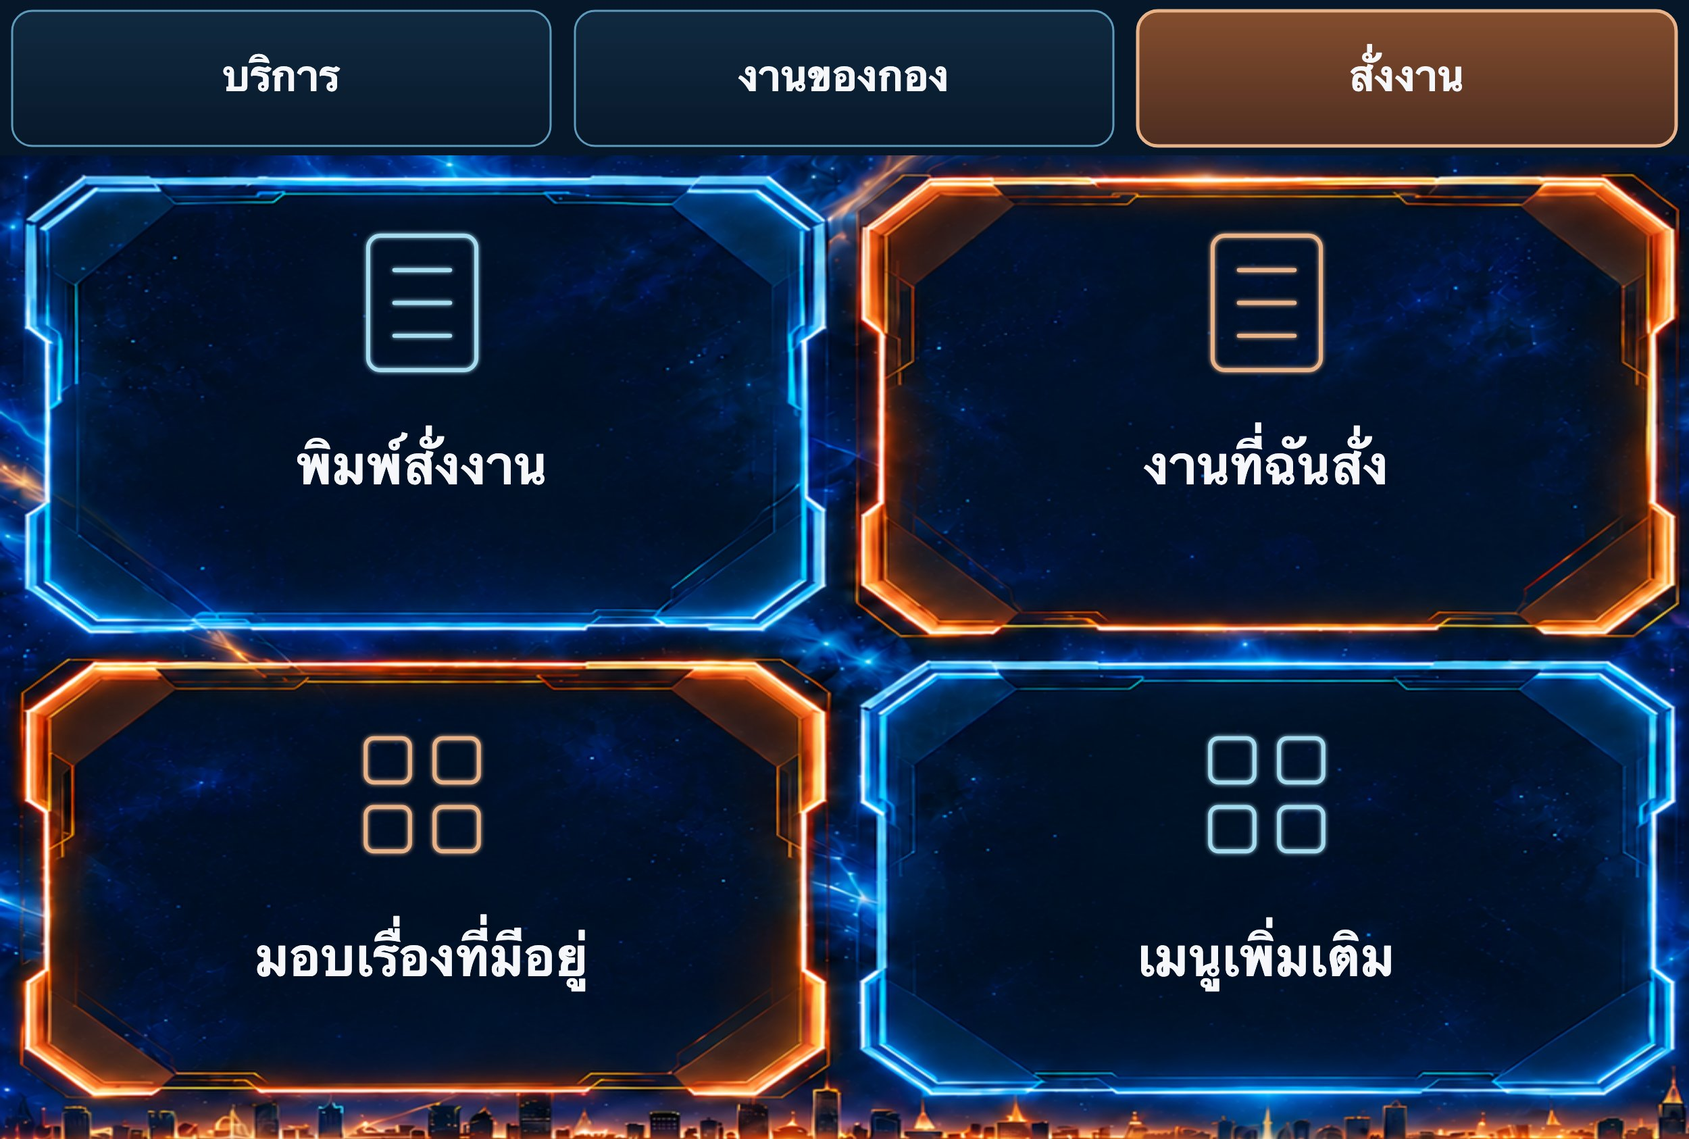
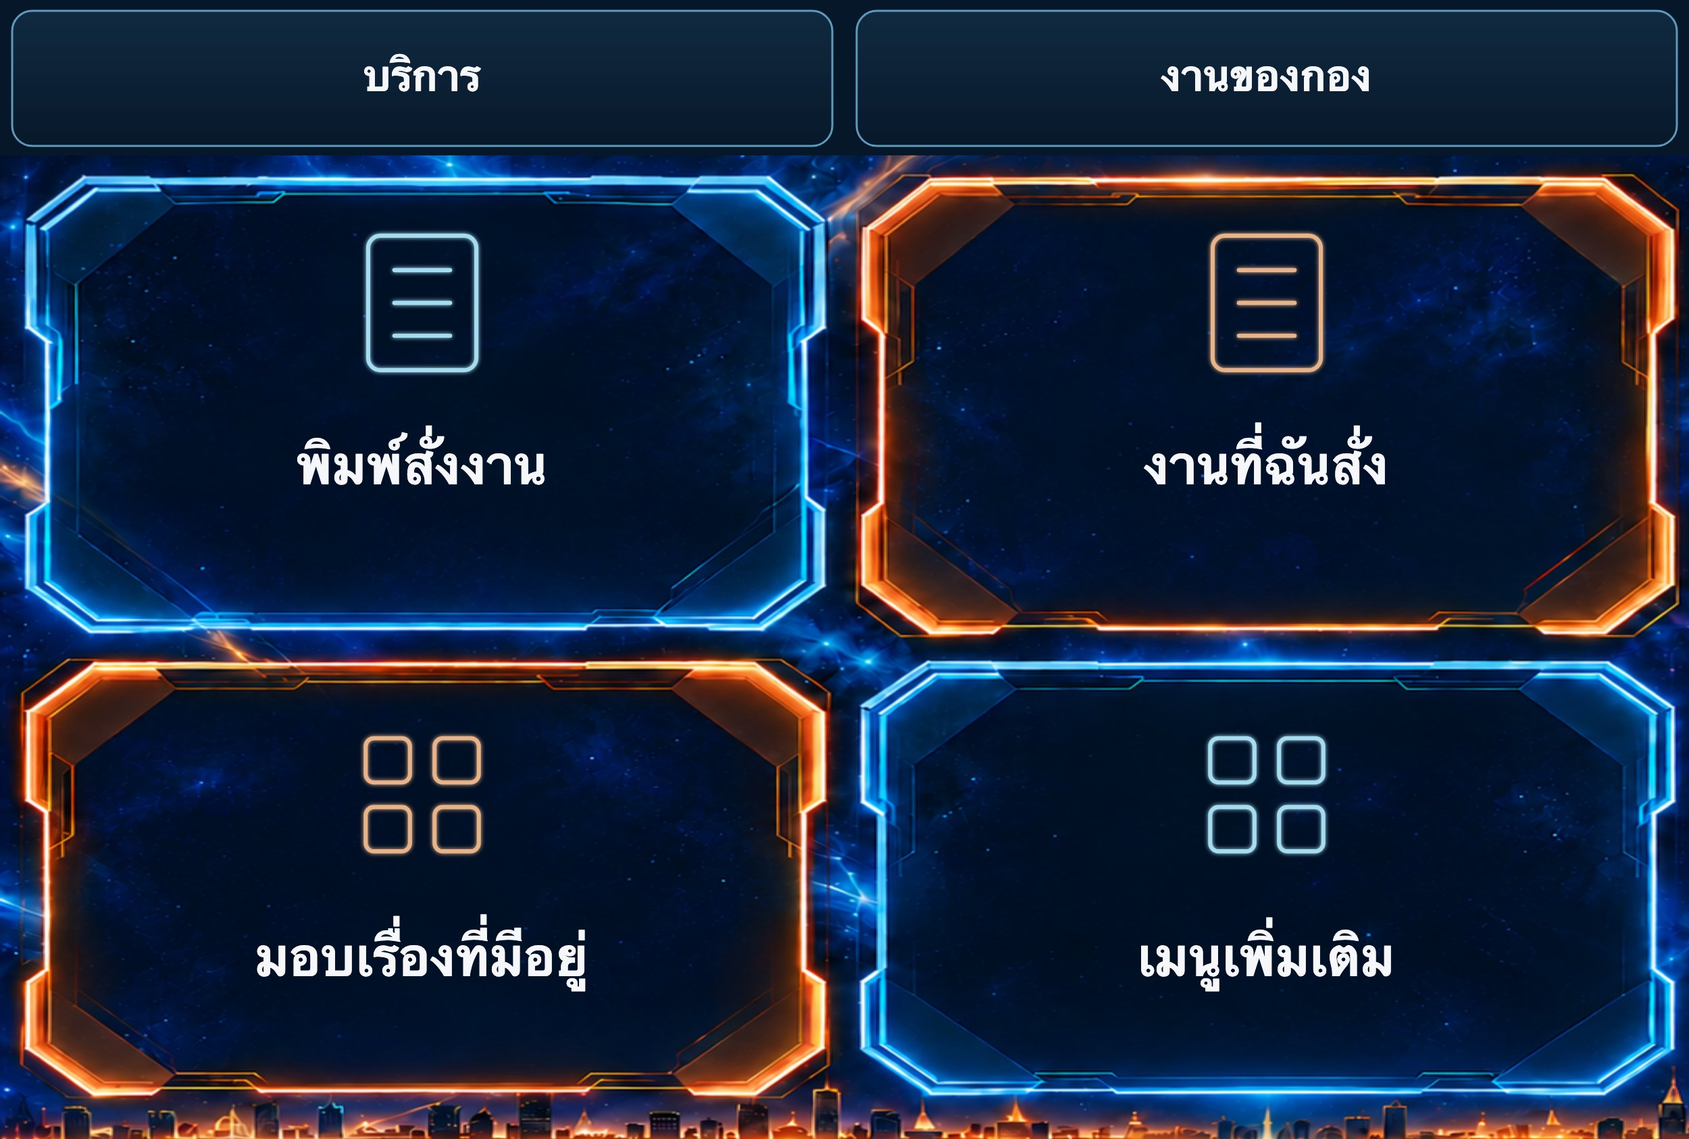
Restrict new work orders to department supervisors

diff --git a/operations/tests/test_m13_convenience.py b/operations/tests/test_m13_convenience.py
@@ -203,12 +203,11 @@ class MaterialGroupTests(registry_tests.RegistryTestCase):
 
 
 class AdminButtonsTests(admin_tests.AdminLineTests):
-    def test_rich_menu_role_navigation_exposes_admin_controls_only_to_admins(self):
+    def test_more_menu_does_not_include_deferred_admin_controls(self):
         self.link(self.admin, ALICE)
         self.link(self.head, BOB)
         choices = buttons(self.say(self.postback(ALICE, "m=roles")))
-        self.assertIn("แอดมิน", choices)
-        self.assertLessEqual(len(choices), 8)
+        self.assertEqual(choices, {})
         self.assertNotIn("แอดมิน", buttons(self.say(self.postback(BOB, "m=roles"))))
 
     def test_approval_button_and_role_wizard_require_current_admin_rights(self):
@@ -257,12 +256,12 @@ class StaffButtonsTests(staff_tests.StaffChatTestCase):
     def test_rich_menu_shortcuts_open_personal_cases_and_the_current_roles_menu(self):
         self.link(self.head, ALICE)
         roles = self.say(self.postback(ALICE, "m=roles"))
-        self.assertIn("งานที่ฉันสั่ง", buttons(roles))
+        self.assertEqual(buttons(roles), {})
         tracking = self.say(self.postback(ALICE, "m=mine"))
         self.assertIn("เรื่องที่ยังไม่จบ", texts(tracking))
         self.assertNotIn("งานที่ฉันสั่ง", buttons(tracking))
         self.assertIn("เรื่องที่ยังไม่จบ", texts(self.type(ALICE, "ติดตามเรื่องของฉัน")))
-        self.assertIn("งานที่ฉันสั่ง", buttons(self.type(ALICE, "เมนูตามสิทธิ์")))
+        self.assertEqual(buttons(self.type(ALICE, "เมนูตามสิทธิ์")), {})
 
     def test_personal_tracking_hides_other_staff_reports_in_the_same_division(self):
         member = make_staff("personal-member", (Role.STAFF, self.kae.code))
@@ -289,15 +288,18 @@ class StaffButtonsTests(staff_tests.StaffChatTestCase):
         self.assertNotIn(cases[BOB].number, buttons(mine))
 
     def test_staff_order_list_pages_and_supervisor_cancel_button(self):
-        self.link(self.head, ALICE)
-        orders = [work_orders.create(self.head, f"งาน {n}", self.kae, self.head) for n in range(7)]
+        self.link(self.director, ALICE)
+        orders = [
+            work_orders.create(self.director, f"งาน {n}", self.kae, self.head) for n in range(7)
+        ]
         self.type(ALICE, "งานของกอง")
         first = self.press(ALICE, "งานที่ฉันสั่ง")
         self.assertEqual(sum(label.startswith("T") for label in buttons(first)), 5)
         second = self.press(ALICE, "ถัดไป")
         self.assertEqual(sum(label.startswith("T") for label in buttons(second)), 2)
         self.assertIn(orders[-1].number, texts(first) + texts(second))
-        self.press(ALICE, "สั่งงานใหม่")
+        menu = self.say(self.postback(ALICE, "m=roles"))
+        self.press(ALICE, "สั่งงาน", menu)
         with patch("operations.staff_orders_chat.extract", return_value=None):
             summary = self.type(ALICE, "ให้ทั้งกอง กองอุปกรณ์ฯ ตรวจมิเตอร์")
         self.press(ALICE, "ยกเลิก")
@@ -305,12 +307,14 @@ class StaffButtonsTests(staff_tests.StaffChatTestCase):
         self.assertEqual(WorkOrder.objects.count(), 7)
 
     def test_supervisor_picks_recipient_then_confirms(self):
-        self.link(self.head, ALICE)
+        self.link(self.director, ALICE)
         self.type(ALICE, "สั่งงาน")
         with patch("operations.staff_orders_chat.extract", return_value=None):
             self.type(ALICE, "ตรวจมิเตอร์")
-            self.press(ALICE, "เลือกผู้รับ")
-            self.press(ALICE, "กองอุปกรณ์ฯ")
+            choices = self.press(ALICE, "เลือกผู้รับ")
+            while "กองอุปกรณ์ฯ" not in buttons(choices):
+                choices = self.press(ALICE, "ถัดไป", choices)
+            self.press(ALICE, "กองอุปกรณ์ฯ", choices)
             summary = self.press(ALICE, f"{self.head.pk} {work_orders.name_of(self.head)}"[:20])
         self.assertIn("ยืนยัน", buttons(summary))
         self.press(ALICE, "ยืนยัน")
@@ -319,7 +323,7 @@ class StaffButtonsTests(staff_tests.StaffChatTestCase):
     def test_assign_person_pages_and_cancellation_without_reason(self):
         self.link(self.head, ALICE)
         people = [make_staff(f"member-{n}", (Role.STAFF, self.kae.code)) for n in range(7)]
-        order = work_orders.create(self.head, "ตรวจอุปกรณ์", self.kae)
+        order = work_orders.create(self.director, "ตรวจอุปกรณ์", self.kae)
         self.type(ALICE, order.number)
         reply = self.press(ALICE, "มอบให้คนในกอง")
         label = f"{people[-1].pk} {work_orders.name_of(people[-1])}"[:20]

diff --git a/operations/tests/test_m13_work_orders.py b/operations/tests/test_m13_work_orders.py
@@ -52,12 +52,14 @@ class OrderTestCase(OrgTestCase):
 
 
 class IssueTests(OrderTestCase):
-    def test_only_a_supervisor_issues_and_only_to_divisions_they_oversee(self):
+    def test_only_department_supervisors_issue_orders(self):
         with self.assertRaises(PermissionDenied):
             work_orders.create(self.kcw, "งานทดสอบ", self.kcw_division)
         with self.assertRaises(PermissionDenied):
             work_orders.create(self.head, "งานทดสอบ", self.ktf_division)
-        order = work_orders.create(self.head, "งานทดสอบ", self.kcw_division)
+        with self.assertRaises(PermissionDenied):
+            work_orders.create(self.head, "งานทดสอบ", self.kcw_division)
+        order = work_orders.create(self.director, "งานทดสอบ", self.kcw_division)
         self.assertRegex(order.number, r"^T\d\d-000001$")
         other = work_orders.create(self.director, "งานทดสอบ", self.ktf_division)
         self.assertEqual(other.number[-6:], "000002")
@@ -67,6 +69,32 @@ class IssueTests(OrderTestCase):
             work_orders.create(self.director, "  ", self.kcw_division)
         with self.assertRaises(ValidationError):
             work_orders.create(self.director, "งานทดสอบ", self.kcw_division, channel="unknown")
+
+    def test_web_creation_is_department_only_for_get_and_post(self):
+        for user in (self.head, self.kcw, self.admin):
+            with self.subTest(user=user.username):
+                client = Client()
+                client.force_login(user)
+                self.assertEqual(client.get(reverse("order-new")).status_code, 403)
+                page = client.get(reverse("division-detail", args=[self.kcw_division.code]))
+                self.assertNotContains(page, "สั่งงานถึงกองนี้")
+                response = client.post(
+                    reverse("order-new"),
+                    {"title": "งานที่ไม่มีสิทธิ์", "target": f"d:{self.kcw_division.pk}"},
+                )
+                self.assertEqual(response.status_code, 403)
+        self.assertFalse(WorkOrder.objects.exists())
+
+    def test_revoked_department_role_cannot_use_a_stale_user_to_create(self):
+        from operations.models import RoleGrant
+
+        self.assertTrue(work_orders.may_issue(self.director))
+        grant = RoleGrant.objects.get(user=self.director, role=Role.DEPARTMENT_SUPERVISOR)
+        identity.revoke_role(self.admin, grant, "ถอนสิทธิ์ทดสอบ")
+        self.assertFalse(work_orders.may_issue(self.director))
+        with self.assertRaises(PermissionDenied):
+            work_orders.create(self.director, "งานจากร่างเดิม", self.kcw_division)
+        self.assertFalse(WorkOrder.objects.exists())
 
     def test_division_work_goes_to_its_supervisor_and_person_work_to_the_person(self):
         self.order()

diff --git a/operations/staff_work.py b/operations/staff_work.py
@@ -60,30 +60,20 @@ def _case_line(case):
 
 
 def navigation(turn, user):
-    """Less frequent actions stay in chat, within the linked account's current role."""
-    actions = {A.WORK_DUE, A.WORK_FIND, A.OPEN_WEB}
+    """The approved extra menu contains only department-level order creation."""
+    quick = []
     if work_orders.may_issue(user):
-        actions |= {A.ORDER_ISSUED, A.ORDER_LATE, A.ORDER_TODAY}
-    rows = LineMenuItem.objects.filter(
-        action__in=actions, place=LineMenuItem.Place.TILE, is_active=True
-    ).order_by("tab", "position", "pk")
-    seen, quick = set(), []
-    for item in rows:
-        if item.action not in seen:
-            seen.add(item.action)
-            quick.append((item.label, f"m=item&id={item.pk}"))
-    if identity.staff_scope(user).is_admin:
-        from operations.admin_line import nav_button
-
-        quick.append(nav_button(turn, "แอดมิน", "home"))
-    quick.append(("บริการ", "m=home"))
-    turn.say("เลือกการดำเนินการตามสิทธิ์", quick)
+        quick.append(turn.button("สั่งงาน", "staff_ow_start"))
+    turn.say("กรุณาเลือกการดำเนินการ" if quick else "ขณะนี้ไม่มีเมนูเพิ่มเติมสำหรับสิทธิ์ของท่าน", quick)
 
 
 def handle_item(turn, user, item):
     """A tap on a งานของกอง or สั่งงาน button of the rich menu."""
-    if item.tab == T.ORDER and not work_orders.may_issue(user):
-        turn.say("เมนูสั่งงานใช้ได้เฉพาะ Supervisor", [web_button()])
+    if item.action == A.ORDER_NEW and not work_orders.may_issue(user):
+        turn.say("การสั่งงานสงวนสิทธิ์สำหรับ Supervisor ระดับฝ่ายเท่านั้น", [web_button()])
+        return
+    if item.tab == T.ORDER and not identity.staff_scope(user).overseen:
+        turn.say("เมนูนี้สงวนสิทธิ์สำหรับ Supervisor เท่านั้น", [web_button()])
         return
     turn.set_prompt()
     {
@@ -160,10 +150,9 @@ def list_page(turn, user, kind="group", page=1):
         if 1 <= number <= rows.paginator.num_pages:
             quick.append(list_button(turn, label, kind, number))
     quick += [list_button(turn, "งานของฉัน", "mine"), list_button(turn, "งานสั่งที่ได้รับ", "received")]
-    if work_orders.may_issue(user):
+    if scope.overseen:
         quick += [
             list_button(turn, "งานที่ฉันสั่ง", "issued"),
-            turn.button("สั่งงานใหม่", "staff_ow_start"),
         ]
     if kind in {"due_cases", "late"}:
         quick.append(

diff --git a/operations/tests/test_m13_mixed_queue.py b/operations/tests/test_m13_mixed_queue.py
@@ -14,8 +14,12 @@ from operations.tests.test_m10_web import WebTestCase
 
 
 class MixedQueueTests(WebTestCase):
+    def setUp(self):
+        super().setUp()
+        self.director = make_staff("director", (Role.DEPARTMENT_SUPERVISOR, None))
+
     def order(self, **extra):
-        return work_orders.create(self.supervisor, "ตรวจมิเตอร์", self.mtr, **extra)
+        return work_orders.create(self.director, "ตรวจมิเตอร์", self.mtr, **extra)
 
     def numbers(self, page):
         return [(row.order or row.case).number for row in page.context["rows"]]
@@ -45,8 +49,7 @@ class MixedQueueTests(WebTestCase):
         line.refresh_from_db()
         web = self.order()
         other_division = Division.objects.get(code="SIM-TRF")
-        other_head = make_staff("trfhead", (Role.SUPERVISOR, other_division.code))
-        other = work_orders.create(other_head, "ตรวจหม้อแปลง", other_division)
+        other = work_orders.create(self.director, "ตรวจหม้อแปลง", other_division)
         work_orders.act(self.meter, line, "start")
         for user in (self.meter, self.supervisor, self.admin):
             with self.subTest(user=user.username):
@@ -55,8 +58,8 @@ class MixedQueueTests(WebTestCase):
                 self.assertEqual(set(self.numbers(page)), {case.number, line.number, web.number})
                 self.assertEqual(page.context["pager"]["total"], 3)
                 self.assertEqual(dict((key, n) for key, _, n in page.context["tabs"])["host"], 3)
-                self.assertContains(page, "สั่งโดย Supervisor · ผ่าน LINE")
-                self.assertContains(page, "สั่งโดย Supervisor · ผ่าน เว็บ")
+                self.assertContains(page, "สั่งโดย Director · ผ่าน LINE")
+                self.assertContains(page, "สั่งโดย Director · ผ่าน เว็บ")
                 for arrived in (case.submitted_at, line.created_at, web.created_at):
                     self.assertContains(page, f"เข้า {thai_short(arrived)} น.")
                 self.assertContains(page, reverse("order-detail", args=[line.number]))
@@ -173,8 +176,8 @@ class MixedQueueTests(WebTestCase):
             },
         )
         self.assertContains(client.get(reverse("queue-all"), {"overdue": 1}), late.number)
-        self.supervisor.staff_profile.display_name = "=HYPERLINK(1)"
-        self.supervisor.staff_profile.save()
+        self.director.staff_profile.display_name = "=HYPERLINK(1)"
+        self.director.staff_profile.save()
         exported = client.get(reverse("queue-all-export")).content.decode("utf-8-sig")
         rows = list(csv.DictReader(io.StringIO(exported)))
         row = next(r for r in rows if r["เลขเรื่อง"] == line.number)

diff --git a/operations/tests/test_m13_text_orders.py b/operations/tests/test_m13_text_orders.py
@@ -13,7 +13,7 @@ from operations.tests.test_m13_staff_chat import StaffChatTestCase
 class TextOrderTests(StaffChatTestCase):
     def setUp(self):
         super().setUp()
-        self.link(self.head, ALICE)
+        self.link(self.director, ALICE)
 
     def proposal(self, **changes):
         return {
@@ -40,13 +40,13 @@ class TextOrderTests(StaffChatTestCase):
         recipient = make_staff("recipient", (Role.STAFF, self.kae.code))
         for order in orders:
             work_orders.act(self.head, order, "assign_person", assignee=recipient)
-        for user in (self.head, recipient, self.admin):
+        for user in (self.director, recipient, self.admin):
             with self.subTest(user=user.username):
                 client = Client()
                 client.force_login(user)
                 page = client.get(reverse("division-detail", args=[self.kae.code]))
                 self.assertContains(page, "ผ่าน LINE", count=2)
-                self.assertContains(page, "สั่งโดย Kaehead", count=2)
+                self.assertContains(page, "สั่งโดย Director", count=2)
                 if user == self.admin:
                     self.assertContains(client.get(reverse("queue-all")), orders[0].number)
                 for order in orders:
@@ -82,9 +82,12 @@ class TextOrderTests(StaffChatTestCase):
         self.assertFalse(WorkOrder.objects.exists())
 
     def test_revoking_supervisor_invalidates_confirmation(self):
+        identity.grant_role(self.admin, self.director, Role.SUPERVISOR, self.kae, "คงสิทธิ์กอง")
         with patch("operations.staff_orders_chat.extract", return_value=self.proposal()):
             summary = self.type(ALICE, "ให้ Kaehead กองอุปกรณ์ฯ ตรวจมิเตอร์")
-        grant = RoleGrant.objects.get(user=self.head, role="supervisor", revoked_at=None)
+        grant = RoleGrant.objects.get(
+            user=self.director, role=Role.DEPARTMENT_SUPERVISOR, revoked_at=None
+        )
         identity.revoke_role(self.admin, grant, "ถอนสิทธิ์")
         self.say(self.postback(ALICE, buttons(summary)["ยืนยัน"]))
         self.assertFalse(WorkOrder.objects.exists())

diff --git a/operations/tests/test_m13_staff_chat.py b/operations/tests/test_m13_staff_chat.py
@@ -132,7 +132,23 @@ class OrderTabTests(StaffChatTestCase):
     def test_the_order_tab_is_for_supervisors_only(self):
         member = make_staff("kaemember", (Role.STAFF, "กองอุปกรณ์ฯ"))
         self.link(member, ALICE)
-        self.assertIn("เฉพาะ Supervisor", texts(self.tile(A.ORDER_NEW)))
+        self.assertIn("Supervisor ระดับฝ่ายเท่านั้น", texts(self.tile(A.ORDER_NEW)))
+
+    def test_more_menu_contains_only_order_for_department_supervisor(self):
+        self.link(self.director, ALICE)
+        menu = self.say(self.postback(ALICE, "m=roles"))
+        self.assertEqual(set(buttons(menu)), {"สั่งงาน"})
+        self.press(ALICE, "สั่งงาน", menu)
+        self.assertIn("พิมพ์", texts(self.sent[-1]))
+
+    def test_division_supervisor_cannot_use_old_order_tile_or_typed_command(self):
+        self.link(self.head, ALICE)
+        self.assertEqual(buttons(self.say(self.postback(ALICE, "m=roles"))), {})
+        for reply in (self.tile(A.ORDER_NEW), self.type(ALICE, "สั่งงาน")):
+            self.assertIn("Supervisor ระดับฝ่ายเท่านั้น", texts(reply))
+        self.type(ALICE, "ให้ทั้งกอง กองอุปกรณ์ฯ ตรวจมิเตอร์")
+        self.type(ALICE, "ยืนยัน")
+        self.assertFalse(WorkOrder.objects.exists())
 
     def test_typed_dates_read_thai_day_and_month(self):
         ahead = timezone.localdate() + timedelta(days=10)

diff --git a/operations/work_orders.py b/operations/work_orders.py
@@ -63,11 +63,11 @@ STEPS = {
 
 
 def may_issue(user):
-    return bool(identity.staff_scope(user).overseen)
+    return identity.staff_scope(user).is_department_supervisor
 
 
 def issuable(user):
-    """Divisions this person may give work to (the ones they supervise)."""
+    """Divisions supervised by this person, also used for assigning existing cases."""
     scope = identity.staff_scope(user)
     return Division.objects.filter(pk__in=scope.overseen, is_active=True).order_by("kind", "code")
 
@@ -174,6 +174,8 @@ def create(
     channel=WorkOrder.Channel.WEB,
 ):
     """A new งานสั่ง; the doer is told at once (Q14)."""
+    if not may_issue(actor):
+        raise PermissionDenied("การสั่งงานสงวนสิทธิ์สำหรับ Supervisor ระดับฝ่ายเท่านั้น")
     title = " ".join((title or "").split())
     if not title:
         raise ValidationError("บอกว่าให้ทำอะไร")

diff --git a/operations/queues.py b/operations/queues.py
@@ -83,7 +83,7 @@ def decides(user, now=None):
     """Holds an authority that makes cases wait for this user (routing, approval, ...)."""
     if policy.routing_scope(user, now) is not None:
         return True
-    if work_orders.may_issue(user) or WorkOrder.objects.filter(issued_by=user).exists():
+    if identity.staff_scope(user).overseen or WorkOrder.objects.filter(issued_by=user).exists():
         return True
     return any(
         policy.active_grants(user, activity, now).exists() for activity in DECISION_ACTIVITIES

diff --git a/operations/line_menu.py b/operations/line_menu.py
@@ -18,7 +18,7 @@ A = LineMenuItem.Action
 P = LineMenuItem.Place
 T = LineMenuItem.Tab
 # The tabs each role's menu shows, and every page that is published.
-ROLE_TABS = {"staff": (T.REPORT, T.WORK), "sup": (T.REPORT, T.WORK, T.ORDER)}
+ROLE_TABS = {"staff": (T.REPORT, T.WORK), "sup": (T.REPORT, T.WORK)}
 # These remain the compact quick replies in chat.  The rich menu itself uses the six fixed
 # service tiles from the catalogue below, plus its two bottom actions.
 SERVICE_BUTTONS = (

diff --git a/operations/tests/test_m13_line_menu.py b/operations/tests/test_m13_line_menu.py
@@ -177,7 +177,7 @@ class StaffMenuTests(MenuTestCase):
         switches = [a["action"] for a in menu["areas"] if a["action"]["type"] == "richmenuswitch"]
         self.assertEqual(
             [s["richMenuAliasId"] for s in switches],
-            ["faoj-sup-report", "faoj-sup-work", "faoj-sup-order"],
+            ["faoj-sup-report", "faoj-sup-work"],
         )
         tiles = [a for a in menu["areas"] if a["action"]["type"] == "postback"]
         self.assertEqual(len(tiles), 4)

diff --git a/operations/web.py b/operations/web.py
@@ -304,7 +304,7 @@ def _queue(request, division, admin_all=False):
         ],
         "districts": District.objects.order_by("name"),
         "sections": list(division.sections.filter(is_active=True)) if division else [],
-        "may_order": division.pk in scope.overseen if division else bool(scope.overseen),
+        "may_order": scope.is_department_supervisor,
     }
     context["registry_count"] = _registry_count(request.user, division, admin_all)
     if _is_htmx(request):

diff --git a/operations/staff_orders_chat.py b/operations/staff_orders_chat.py
@@ -83,7 +83,7 @@ def extract(messages):
 
 def start(turn, user):
     if not work_orders.may_issue(user):
-        turn.say("คุณยังไม่มีสิทธิ์ Supervisor")
+        turn.say("การสั่งงานสงวนสิทธิ์สำหรับ Supervisor ระดับฝ่ายเท่านั้น")
         return
     turn.set_prompt(PROMPT, messages=[])
     turn.say(
